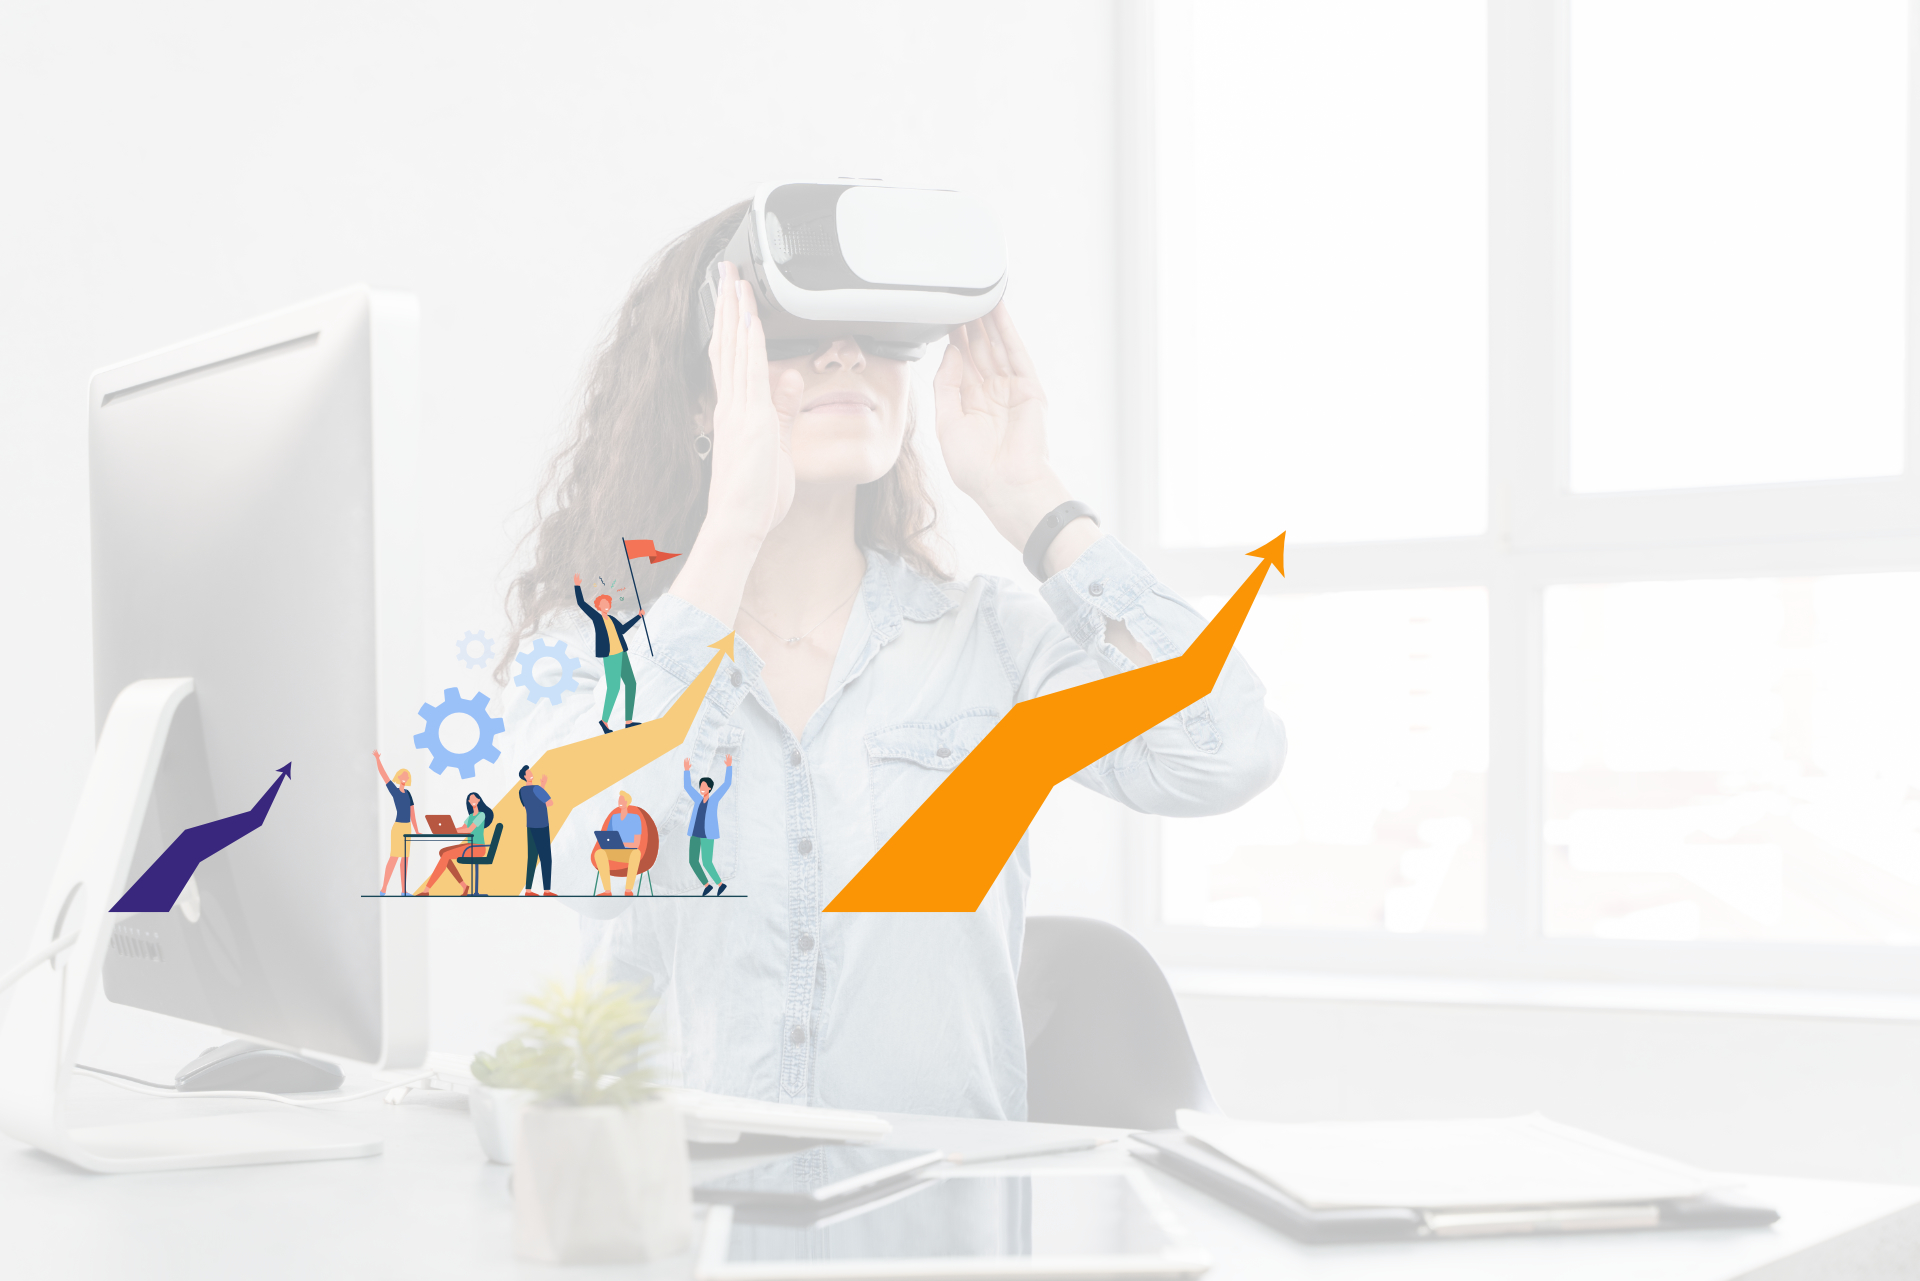
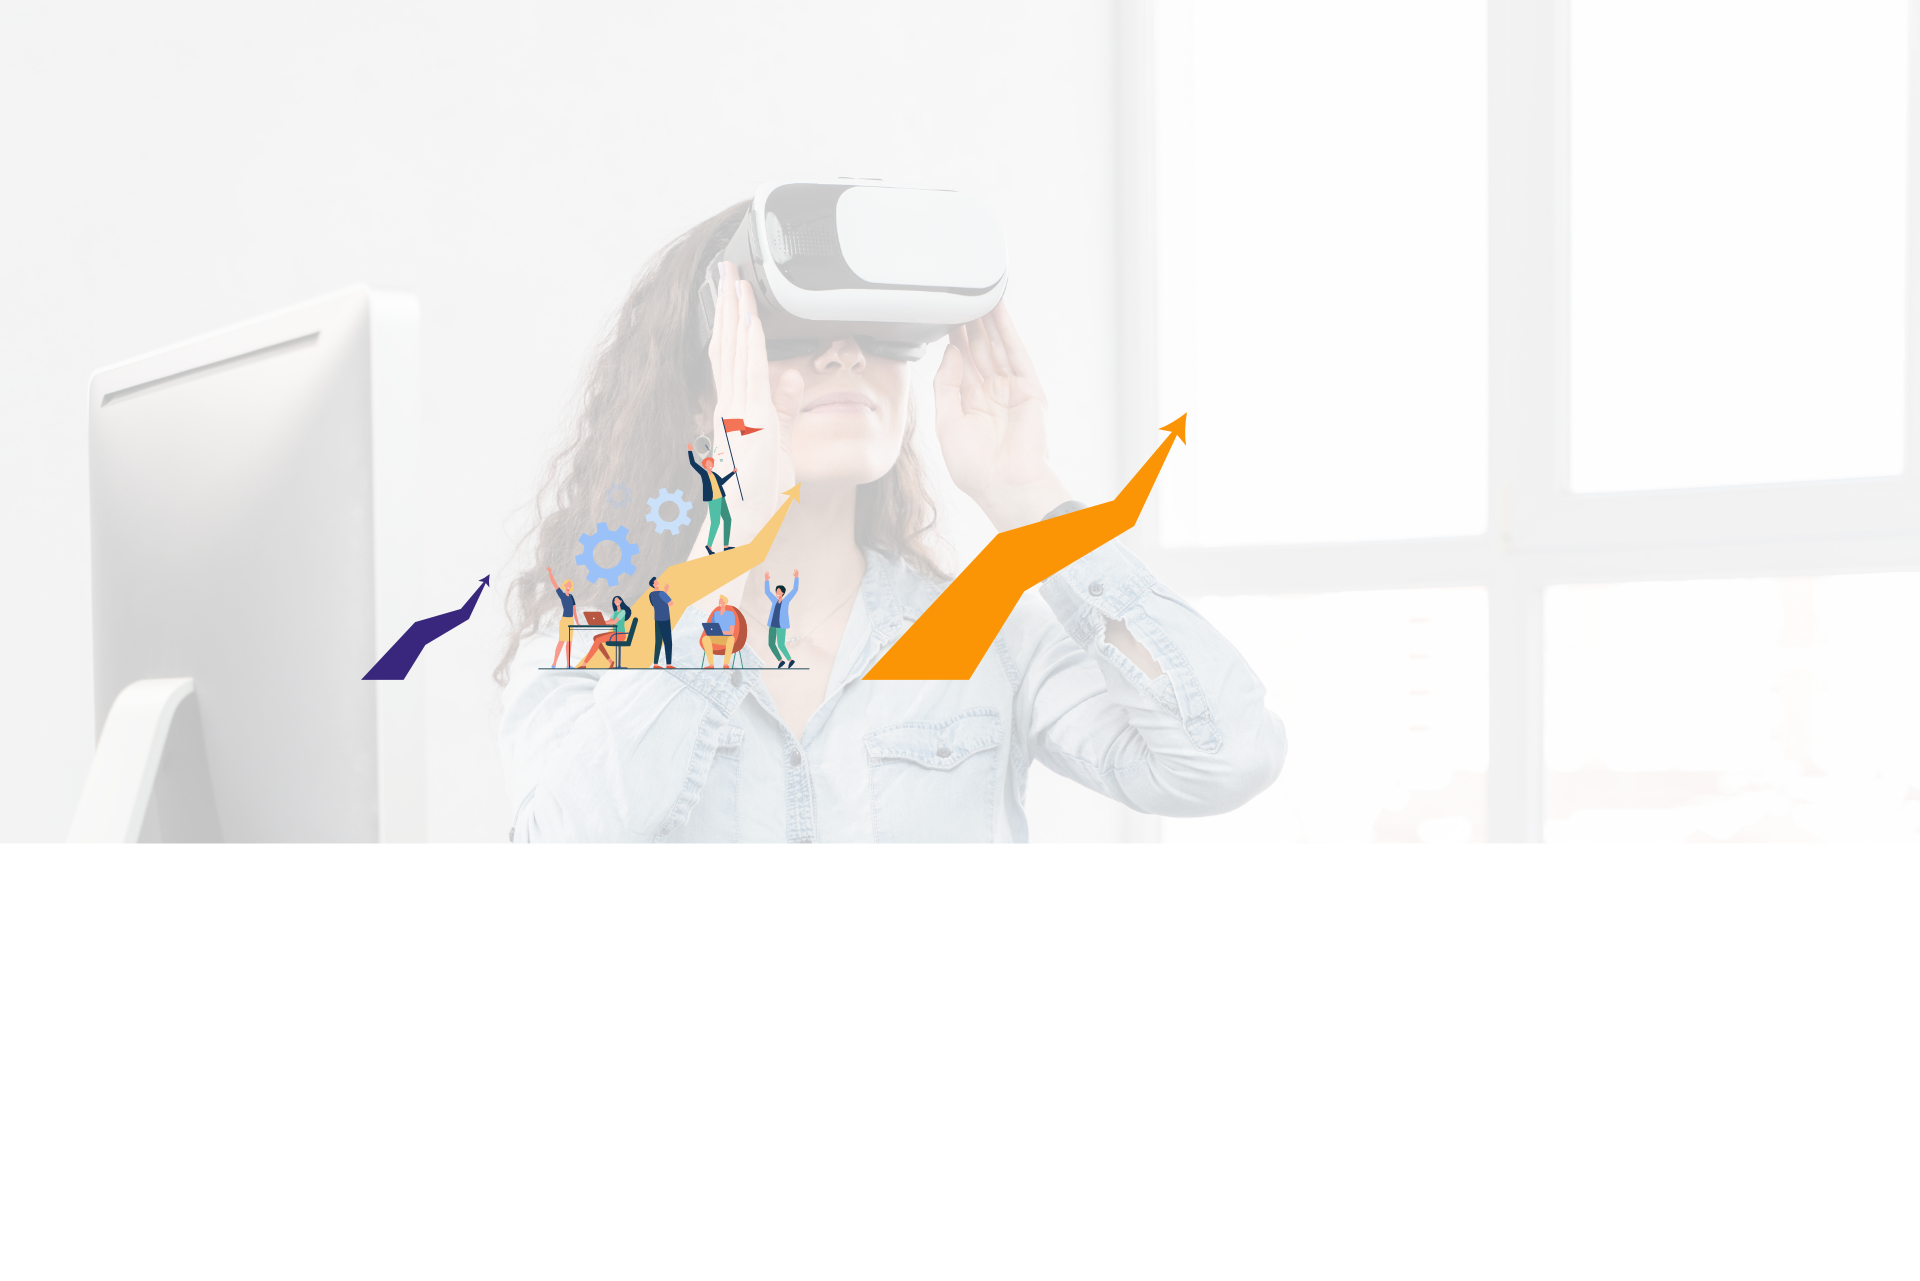
Update

diff --git a/css/style.css b/css/style.css
@@ -72,7 +72,7 @@
 	}
 
 	.orange_button {
-		background-color: #f5b848;
+		background-color: #fb9505;
 		height: 50px;
 		width: 250px;
 		border-radius: 20px;
@@ -87,7 +87,7 @@
 	}
 
 	.purple_button {
-		background-color: #39277d;
+		background-color: #401177;
 		height: 50px;
 		width: 250px;
 		border-radius: 20px;
@@ -108,11 +108,13 @@
 		height: 120px;
 		background-image: url("../images/header_background.svg");
 		background-repeat: no-repeat;
-		background-size: 1950px;
-		background-position: right;
+		background-size: 1920px;
+		background-position: right top;
+
 		position: sticky;
 		z-index: 1;
 		top: 0;
+		padding: 0 min(3vw, 70px);
 	}
 
 	.top_menu_bar {
@@ -123,12 +125,12 @@
 		align-items: center;
 		justify-content: space-between;
 		color: white;
+		padding: 0 min(3vw, 70px);
 	}
 	.top_menu_bar_social {
 		display: flex;
 		align-items: center;
 		justify-content: space-between;
-		margin-left: 3vw;
 		width: 168px;
 	}
 
@@ -137,7 +139,6 @@
 	}
 
 	.top_menu_bar_links {
-		margin-right: 3vw;
 		display: flex;
 		align-items: center;
 		justify-content: space-between;
@@ -145,16 +146,17 @@
 	}
 
 	.top_menu_bar_links a {
+		width: 184px;
 		display: flex;
 		align-items: center;
+		justify-content: space-between;
 		color: white;
 		font-size: 14px;
-		margin-left: 20px;
+		padding: 0 0 0 70px;
 	}
 
 	.top_menu_bar_links img {
 		height: 16px;
-		padding: 0 10px;
 	}
 
 	.nav_container {
@@ -167,16 +169,27 @@
 	}
 
 	.nav_logo_studinventive {
-		width: 10vw;
-		min-width: 150px;
-		margin-left: 3vw;
+		height: 25px;
+	}
+
+	@media screen and (max-width: 1239px) {
+		.nav_logo_studinventive {
+			height: 0;
+		}
+		.nav_logo_rocket {
+			height: 50px;
+		}
+	}
+
+	.current_page {
+		font-family: "MontserratBold", sans-serif;
+		color: #401177;
 	}
 
 	nav {
 		height: 58%;
 		display: flex;
 		align-items: center;
-		font-family: "MontserratBold", sans-serif;
 		box-shadow: none !important;
 		-webkit-box-shadow: none !important;
 	}
@@ -188,25 +201,25 @@
 		align-items: center;
 		margin-top: 6px;
 		justify-content: flex-end;
-		font-family: "MontserratBold", sans-serif;
+		font-family: "Montserrat", sans-serif;
 		font-size: 1.25rem;
 		text-transform: uppercase;
 	}
 
 	nav ul a:hover {
 		background-color: transparent;
-		color: #39277d;
+		color: #401177;
 	}
 
 	nav ul a {
-		padding: 0 1vw 0 0;
+		padding: 0 5px 0;
 		color: black;
 		font-size: 14px;
 	}
 
 	.nav_li_campus a {
-		padding: 0 15px 0 2vw;
 		color: white;
+		padding: 0 0 0 70px;
 	}
 
 	#dropdown1 a {
@@ -242,19 +255,21 @@
 	/* Landing section */
 
 	.landing_section {
-		height: 1000px;
+		height: 820px;
 		width: 100%;
 		position: relative;
 		top: -120px;
+		padding-top: 180px;
 		background-image: url("../images/landing_background.jpg");
 		background-repeat: no-repeat;
 		background-position: top left;
+		background-attachment: fixed;
 		display: flex;
-		justify-content: space-around;
+		justify-content: space-evenly;
+		align-items: flex-start;
 	}
 
 	.landing_section_left {
-		padding-top: 150px;
 		width: 60%;
 	}
 
@@ -263,7 +278,7 @@
 		text-transform: uppercase;
 		font-family: "MontserratMedium", sans-serif;
 		font-size: 2rem;
-		margin-bottom: 20px;
+		margin: 0 0 20px 0;
 	}
 
 	.landing_section_left h2 {
@@ -276,14 +291,11 @@
 	}
 
 	.landing_section_right {
-		align-self: bottom;
-		padding-bottom: 550px;
 		height: 50%;
 		display: flex;
 		flex-direction: column;
 		align-items: center;
 		justify-content: space-around;
-		align-self: flex-end;
 	}
 
 	.landing_section_right img {
@@ -313,7 +325,8 @@
 		background-size: 1920px;
 		background-color: transparent;
 		position: relative;
-		top: -225px;
+		top: -310px;
+		padding: 0 70px;
 	}
 
 	.method_section_s_right_element {
@@ -325,12 +338,12 @@
 		height: 130px;
 		position: absolute;
 		top: 250px;
-		right: 3vw;
+		right: min(3vw, 150px);
 	}
 
 	.method_section ul {
 		width: 40%;
-		padding-left: 3vw;
+		padding-left: min(3vw, 150px);
 	}
 
 	.method_section li {
@@ -352,25 +365,20 @@
 		height: 280px;
 	}
 
-	.method_section a {
-		display: flex;
-		background-color: #f5b848;
-	}
-
 	/* Model section */
 
 	.model_section {
 		position: relative;
-		top: -225px;
+		top: -310px;
 		height: 600px;
 		width: 100%;
 		display: flex;
 		flex-direction: column;
 		align-items: center;
 		justify-content: space-evenly;
-		background-color: #39277d;
+		background-color: #401177;
 		color: white;
-		padding: 0 3vw;
+		padding: 0 70px;
 	}
 
 	.model_section h2 {
@@ -385,15 +393,14 @@
 		width: 100%;
 		display: flex;
 		align-items: center;
-		justify-content: space-evenly;
-		background-color: #533ca8;
+		justify-content: space-around;
 		border-radius: 25px;
-		padding: 30px 0;
 	}
 
 	.model_section_card {
 		position: relative;
 		width: 320px;
+		min-width: 320px;
 		height: 296px;
 		display: flex;
 		flex-direction: column;
@@ -419,6 +426,7 @@
 		font-size: 0.85rem;
 		background-color: #533ca8;
 		border-bottom-right-radius: 20px;
+		border: thin solid #533ca8;
 	}
 
 	.model_section_card .card_circle1,
@@ -429,12 +437,12 @@
 		border-radius: 50px;
 		content: "";
 		position: absolute;
-		top: -1px;
-		right: 76px;
+		top: 1px;
+		right: 74px;
 	}
 
 	.card_circle1 {
-		background-color: #39277d;
+		background-color: #401177;
 	}
 
 	.card_circle2 {
@@ -446,7 +454,7 @@
 	}
 
 	.model_section_card p {
-		color: #39277d;
+		color: #401177;
 		font-size: 1rem;
 		text-align: center;
 		padding: 0 10px 20px 10px;
@@ -456,7 +464,7 @@
 
 	.video_section {
 		position: relative;
-		top: -225px;
+		top: -310px;
 		display: flex;
 		flex-direction: column;
 		align-items: center;
@@ -464,11 +472,12 @@
 		height: 900px;
 		width: 100%;
 		background-color: white;
-		color: #39277d;
+		color: #401177;
 		background-image: url("../images/video_section_background.svg");
 		background-repeat: no-repeat;
 		background-position: bottom;
 		background-size: contain;
+		padding: 0 70px;
 	}
 
 	.video_section_title {
@@ -494,11 +503,12 @@
 		align-items: flex-start;
 		justify-content: space-around;
 		width: 100%;
+		min-height: 320px;
 	}
 
 	.video_section_content_left {
-		width: 25%;
 		height: 100%;
+		max-width: 20%;
 		display: flex;
 		flex-direction: column;
 		align-items: center;
@@ -506,7 +516,7 @@
 	}
 
 	.video_section_content_left img {
-		width: 75%;
+		max-width: 100%;
 	}
 
 	.video_section_content .video_frame {
@@ -514,9 +524,9 @@
 		display: flex;
 		align-items: center;
 		justify-content: center;
-		padding: 20px 4vw;
+		padding: 20px 4%;
 		border-radius: 30px;
-		background-color: #39277d;
+		background-color: #401177;
 		border: 10px solid #533ca8;
 	}
 	.presentation_video {
@@ -524,16 +534,15 @@
 	}
 
 	.video_section_content_right {
-		width: 25%;
 		height: 75%;
 		display: flex;
 		flex-direction: column;
-		align-items: center;
+		align-items: flex-end;
 		justify-content: space-between;
 		text-align: center;
 	}
 
 	.video_section_content_right img {
-		max-width: 15vw;
+		max-width: min(15vw, 300px);
 	}
 }

diff --git a/index.html b/index.html
@@ -18,8 +18,11 @@
                 hover: true,
                 coverTrigger: false,
                 autoTrigger: false,
+                onCloseEnd: function () { document.activeElement.blur(); }
             });
-        });</script>
+        });
+
+    </script>
     <title>Studinventive : la formation révinventée</title>
 </head>
 
@@ -44,6 +47,8 @@
         <div class="nav_container">
             <a href="/index.html"><img class="nav_logo_studinventive" src="images/logo_studinventive.svg"
                     alt="Logo Studinventive"></a>
+            <a href="/index.html"><img class="nav_logo_rocket" src="images/logo_rocket.svg"
+                    alt="Logo Studinventive rocket"></a>
             <!-- ul dropdown1 = liste qui sert au dropdown "Formation" du nav -->
             <ul id="dropdown1" class="dropdown-content">
                 <li><a href="#!">Nos challenges</a></li>
@@ -56,7 +61,7 @@
             </ul>
             <nav>
                 <ul>
-                    <li><a href="">Accueil</a></li>
+                    <li><a href="" class="current_page">Accueil</a></li>
                     <li><a href="">Notre méthode</a></li>
                     <li><a class="dropdown-trigger" href="#!" data-target="dropdown1">Nos formations</a></li>
                     <li><a href="">Partenariat</a></li>
